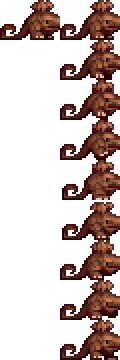
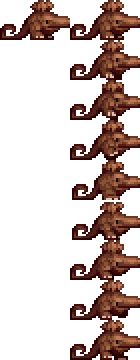
Significantly cleaned up snoobel

diff --git a/Content/NPCs/Snow/Snoobel.cs b/Content/NPCs/Snow/Snoobel.cs
@@ -6,11 +6,10 @@
 //Deathsound
 
 //Better attach snoobel's trunk
+//Make the trunk not gleek out if it's inside of a tile
 //Collision on snoobel's trunk
 
 //Reach attack
-//Whip attack
-//Pull "attack"
 //Make it jump
 
 
@@ -55,9 +54,15 @@ namespace StarlightRiver.Content.NPCs.Snow
         private const int XFRAMES = 2;
         private readonly int NUM_SEGMENTS = 30;
 
+        private readonly int WHIP_BUILDUP = 90;
+        private readonly int WHIP_DURATION = 20;
+
+        private readonly int PULL_DURATION = 80;
+
         private Phase phase = Phase.Walking;
 
         private Trail trail;
+        private List<Vector2> cache = new List<Vector2>();
 
         private int xFrame = 0;
         private int yFrame = 0;
@@ -65,9 +70,11 @@ namespace StarlightRiver.Content.NPCs.Snow
 
         private int attackTimer = 0;
 
+        private bool pulling = false;
+
         private VerletChain trunkChain;
 
-        private Vector2 trunkStart => NPC.Center + new Vector2(28 * NPC.spriteDirection, 8);
+        private Vector2 trunkStart => NPC.Center + new Vector2(33 * NPC.spriteDirection, 7);
 
         private Player target => Main.player[NPC.target];
 
@@ -86,14 +93,14 @@ namespace StarlightRiver.Content.NPCs.Snow
 
         public override void SetDefaults()
         {
-            NPC.width = 38;
-            NPC.height = 44;
+            NPC.width = 46;
+            NPC.height = 40;
             NPC.damage = 0;
             NPC.defense = 5;
-            NPC.lifeMax = 60;
+            NPC.lifeMax = 100;
             NPC.value = 100f;
             NPC.knockBackResist = 0f;
-            NPC.HitSound = SoundID.Grass;
+            NPC.HitSound = SoundID.NPCHit39;
             NPC.DeathSound = SoundID.Grass;
         }
 
@@ -142,7 +149,10 @@ namespace StarlightRiver.Content.NPCs.Snow
             UpdateTrunk();
 
             if (!Main.dedServ)
+            {
+                ManageCache();
                 ManageTrail();
+            }
         }
 
         public override bool PreDraw(SpriteBatch spriteBatch, Vector2 screenPos, Color drawColor)
@@ -150,7 +160,7 @@ namespace StarlightRiver.Content.NPCs.Snow
             Texture2D texture = Request<Texture2D>(Texture).Value;
 
             SpriteEffects effects = SpriteEffects.None;
-            Vector2 origin = new Vector2((NPC.width * 0.75f), (NPC.height / 2) - 8);
+            Vector2 origin = new Vector2((NPC.width * 0.75f), (NPC.height / 2) - 6);
 
             if (NPC.spriteDirection != 1)
                 effects = SpriteEffects.FlipHorizontally;
@@ -164,7 +174,7 @@ namespace StarlightRiver.Content.NPCs.Snow
 
         public override void FindFrame(int frameHeight)
         {
-            int frameWidth = 60;
+            int frameWidth = 70;
             NPC.frame = new Rectangle(frameWidth * xFrame, (frameHeight * yFrame) + 2, frameWidth, frameHeight - 2);
         }
 
@@ -178,6 +188,9 @@ namespace StarlightRiver.Content.NPCs.Snow
 
         private void DrawTrunk()
         {
+            if (trail == null || trail == default)
+                return;
+
             Main.spriteBatch.End();
             Effect effect = Terraria.Graphics.Effects.Filters.Scene["SnoobelTrunk"].GetShader().Shader;
 
@@ -187,23 +200,63 @@ namespace StarlightRiver.Content.NPCs.Snow
 
             effect.Parameters["transformMatrix"].SetValue(world * view * projection);
             effect.Parameters["sampleTexture"].SetValue(ModContent.Request<Texture2D>(Texture + "_Whip").Value);
+            effect.Parameters["sampleTextureEnd"].SetValue(ModContent.Request<Texture2D>(Texture + "_WhipEnd").Value);
             effect.Parameters["alpha"].SetValue(1);
             effect.Parameters["flip"].SetValue(NPC.spriteDirection == 1);
 
-            trail?.Render(effect);
+            List<Vector2> points;
+            if (cache == null)
+                points = GetTrunkPoints();
+            else
+            {
+                points = trail.Positions.ToList();
+            }
+            effect.Parameters["totalLength"].SetValue(TotalLength(points));
+            trail.Render(effect);
 
             Main.spriteBatch.Begin(default, default, default, default, default, default, Main.GameViewMatrix.TransformationMatrix);
         }
 
+        private void ManageCache()
+        {
+            cache = new List<Vector2>();
+            cache.Add(trunkStart);
+
+            float pointLength = TotalLength(GetTrunkPoints()) / NUM_SEGMENTS;
+
+            float pointCounter = 0;
+
+            int presision = 30; //This normalizes length between points so it doesnt squash super weirdly on certain parts
+            for (int i = 0; i < NUM_SEGMENTS - 1; i++)
+            {
+                for (int j = 0; j < presision; j++)
+                {
+                    pointCounter += (trunkChain.ropeSegments[i].posNow - trunkChain.ropeSegments[i + 1].posNow).Length() / (float)presision;
+                    while (pointCounter > pointLength)
+                    {
+                        float lerper = j / (float)presision;
+                        cache.Add(Vector2.Lerp(trunkChain.ropeSegments[i].posNow, trunkChain.ropeSegments[i + 1].posNow, lerper));
+                        pointCounter -= pointLength;
+                    }
+                }
+            }
+
+            while (cache.Count < NUM_SEGMENTS)
+                cache.Add(trunkChain.ropeSegments[NUM_SEGMENTS - 1].posNow);
+
+            while (cache.Count > NUM_SEGMENTS)
+                cache.RemoveAt(cache.Count - 1);
+        }
+
         private void ManageTrail()
         {
-            trail = trail ?? new Trail(Main.instance.GraphicsDevice, NUM_SEGMENTS - 1, new TriangularTip(1), factor => 10, factor =>
+            trail = trail ?? new Trail(Main.instance.GraphicsDevice, NUM_SEGMENTS - 1, new TriangularTip(1), factor => 7, factor =>
             {
                 return Lighting.GetColor((int)(NPC.Center.X / 16), (int)(NPC.Center.Y / 16));
             });
 
 
-            List<Vector2> positions = GetTrunkPoints();
+            List<Vector2> positions = cache;
             trail.NextPosition = positions[NUM_SEGMENTS - 1];
 
             positions.RemoveAt(NUM_SEGMENTS - 1);
@@ -216,7 +269,7 @@ namespace StarlightRiver.Content.NPCs.Snow
             frameCounter++;
 
             attackTimer++;
-            if (attackTimer >= 400)
+            if (attackTimer >= 200)
             {
                 phase = Phase.Deciding;
                 attackTimer = 0;
@@ -226,6 +279,7 @@ namespace StarlightRiver.Content.NPCs.Snow
 
             if (xdist > 30)
             {
+                xFrame = 1;
                 if (frameCounter % 5 == 0)
                 {
                     yFrame++;
@@ -241,30 +295,110 @@ namespace StarlightRiver.Content.NPCs.Snow
                 if (NPC.collideX && NPC.velocity.Y == 0)
                     NPC.velocity.Y = -8;
             }
+            else
+            {
+                xFrame = 0;
+                frameCounter = 0;
+                yFrame = 0;
+            }
         }
 
         private void WhippingBehavior()
         {
-            phase = Phase.Walking;
+            if (attackTimer == 0)
+            {
+                trunkChain.customGravity = true;
+                trunkChain.forceGravity = Vector2.One;
+                trunkChain.forceGravities = new List<Vector2>();
+
+                int index = 0;
+                foreach (RopeSegment segment in trunkChain.ropeSegments)
+                {
+                    float rad = 4f * ((float)(index - 6) / NUM_SEGMENTS);
+                    float xForce = 0.5f* NPC.spriteDirection * (float)Math.Cos(rad);
+                    float yForce = -0.25f * (float)Math.Sin(rad);
+                    trunkChain.forceGravities.Add(new Vector2(xForce, -0.5f));
+                    index++;
+                }
+            }
+            xFrame = 0;
+            frameCounter = 0;
+            yFrame = 0;
+            attackTimer++;
+
+            if (attackTimer < WHIP_BUILDUP)
+            {
+
+            }
+            else
+            {
+                trunkChain.customGravity = false;
+                trunkChain.forceGravity = new Vector2(NPC.spriteDirection, 0);
+                if (attackTimer > WHIP_DURATION + WHIP_BUILDUP)
+                {
+                    trunkChain.forceGravity = new Vector2(0, 0.1f);
+                    phase = Phase.Walking;
+                    attackTimer = 0;
+                }
+            }
         }
 
         private void ReachingBehavior()
         {
-            phase = Phase.Walking;
+            phase = Phase.Pulling;
         }
 
         private void PullingBehavior()
         {
-            phase = Phase.Walking;
+            xFrame = 0;
+            frameCounter = 0;
+            yFrame = 0;
+            attackTimer++;
+
+            if (!pulling)
+            {
+                trunkChain.customGravity = false;
+                trunkChain.forceGravity = NPC.DirectionTo(target.Center) * 1.1f;
+
+                Vector2 endPos = trunkChain.ropeSegments[NUM_SEGMENTS - 1].posNow + (16 * NPC.DirectionTo(target.Center));
+                Point endPosTileGrid = new Point((int)(endPos.X / 16), (int)(endPos.Y / 16));
+                Tile tile = Framing.GetTileSafely(endPosTileGrid);
+                if (tile != null && tile.HasTile && Main.tileSolid[tile.TileType] && attackTimer > 6)
+                {
+                    pulling = true;
+                    trunkChain.endPoint = endPos;
+                    trunkChain.useEndPoint = true;
+                    trunkChain.forceGravity = Vector2.Zero;
+                }
+
+                if (attackTimer > PULL_DURATION)
+                {
+                    trunkChain.forceGravity = new Vector2(0, 0.1f);
+                    phase = Phase.Walking;
+                    attackTimer = 0;
+                }
+            }
+            else
+            {
+                Vector2 dir = trunkChain.endPoint - trunkStart;
+                NPC.velocity = Vector2.Normalize(dir) * 6;
+                if (dir.Length() < 60 || attackTimer > PULL_DURATION * 2)
+                {
+                    pulling = false;
+                    attackTimer = 0;
+                    trunkChain.forceGravity = new Vector2(0, 0.1f);
+                    trunkChain.useEndPoint = false;
+                    phase = Phase.Walking;
+                }
+            }
         }
 
         private void DecidingBehavior()
         {
-            phase = (Phase)Main.rand.Next(4);
+            attackTimer = 0;
+            phase = (Phase)Main.rand.Next(3) + 1;
             switch (phase)
             {
-                case Phase.Walking:
-                    WalkingBehavior(); break;
                 case Phase.Whipping:
                     WhippingBehavior(); break;
                 case Phase.Reaching:
@@ -280,10 +414,25 @@ namespace StarlightRiver.Content.NPCs.Snow
 
             trunkChain.startPoint = trunkStart;
 
-            int anchorLength = 10;
+            if (pulling)
+            {
+                for (int i = 0; i < NUM_SEGMENTS; i++)
+                {
+                    float lerper = ((float)i / (NUM_SEGMENTS - 2));
+                    Vector2 posToBe = Vector2.Lerp(trunkChain.startPoint, trunkChain.endPoint, lerper);
+                    trunkChain.ropeSegments[i].posNow = Vector2.Lerp(trunkChain.ropeSegments[i].posNow, posToBe, 0.5f);
+                }
+            }
+
+            int anchorLength = 14;
+            int anchorStart = 5;
+
             for (int i = 0; i < anchorLength; i++)
             {
-                trunkChain.ropeSegments[i].posNow = Vector2.Lerp(trunkStart + new Vector2(i * 5 * NPC.spriteDirection, 0), trunkChain.ropeSegments[i].posNow, (float)Math.Pow((float)i / (anchorLength + 1), 0.5f));
+                float lerper = (float)Math.Pow((float)(i - anchorStart) / (anchorLength + 1 - anchorStart), 0.5f);
+                if (i <= anchorStart)
+                    lerper = 0;
+                trunkChain.ropeSegments[i].posNow = Vector2.Lerp(trunkStart + new Vector2(i * 5 * NPC.spriteDirection, 0), trunkChain.ropeSegments[i].posNow, lerper);
             }
         }
 
@@ -295,6 +444,17 @@ namespace StarlightRiver.Content.NPCs.Snow
                 points.Add(ropeSegment.posNow);
 
             return points;
+        }
+
+        private float TotalLength(List<Vector2> points)
+        {
+            float ret = 0;
+            for (int i = 1; i < points.Count; i++)
+            {
+                ret += (points[i] - points[i - 1]).Length();
+            }
+
+            return ret;
         }
     }
 }

diff --git a/Content/Physics/VerletChain.cs b/Content/Physics/VerletChain.cs
@@ -227,8 +227,8 @@ namespace StarlightRiver.Physics
             {
                 if (useStartPoint)
                     ropeSegments[simStartOffset].posNow = startPoint;
-                //if (useEndPoint)
-                //    ropeSegments[simEndOffset].posNow = endPoint;//if the end point clamp breaks, check this
+                if (useEndPoint)
+                   ropeSegments[simEndOffset - 1].posNow = endPoint;//if the end point clamp breaks, check this
                 ApplyConstraint();
             }
         }
